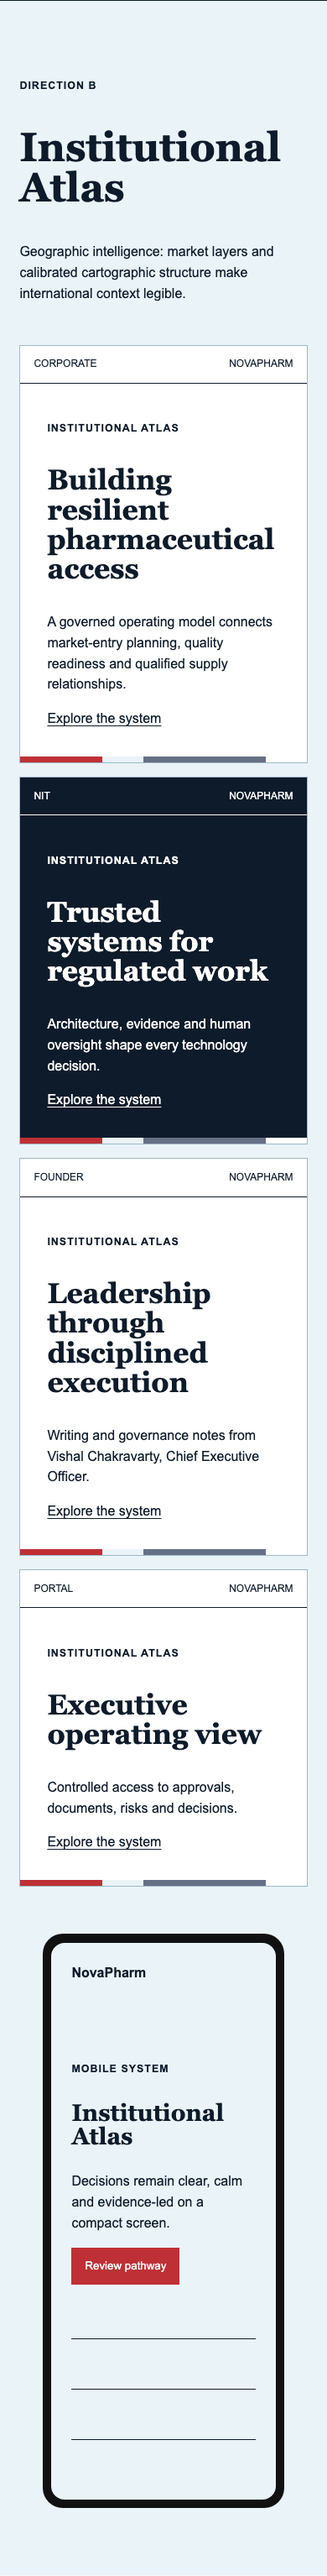
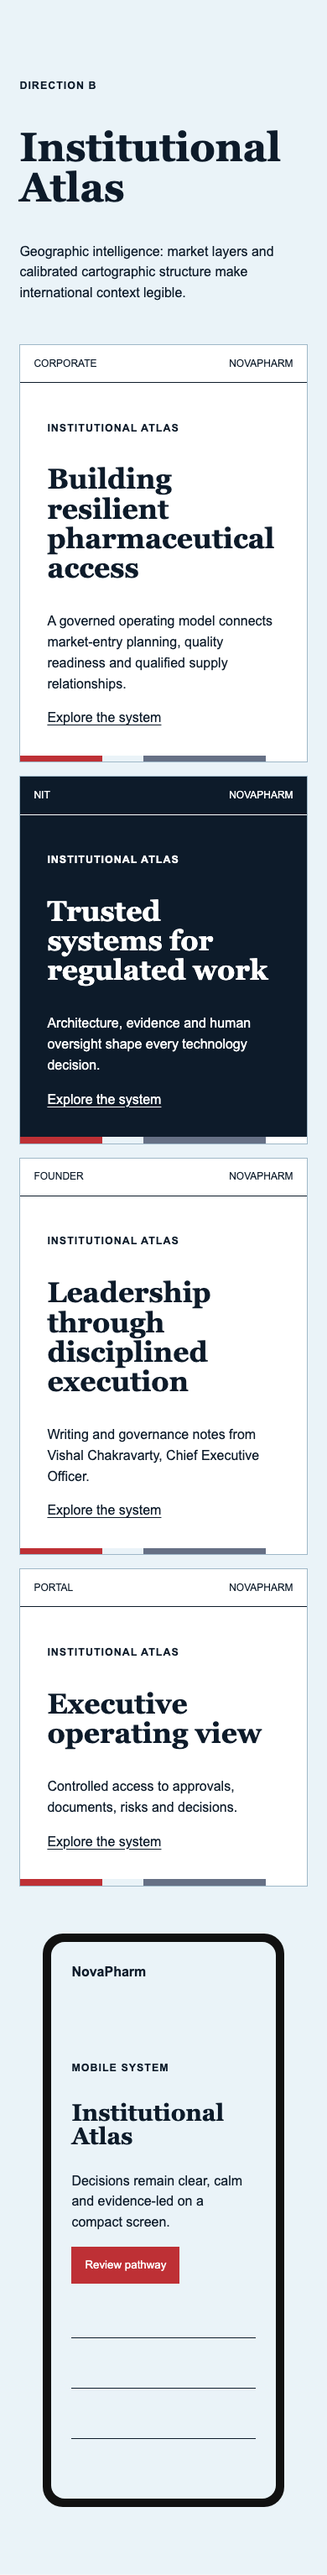
fix(accessibility): preserve brand contrast across estate

diff --git a/assets/css/novapharm.bundle.css b/assets/css/novapharm.bundle.css
@@ -14,6 +14,7 @@
   --line: #d0d5dd;
   --brand: #E3120B;
   --brand-2: #B30E09;
+  --brand-text: #B30E09;
   --navy: #081827;
   --teal: #087f8c;
   --blue: #2457d6;
@@ -217,7 +218,7 @@ h1, h2, h3, h4, p, a, td, th { overflow-wrap: break-word; }
   letter-spacing: 0;
 }
 .section-head-wide { max-width: 940px; }
-.section-kicker { display: block; margin-bottom: 12px; color: var(--brand); font-size: 12px; font-weight: 800; text-transform: uppercase; }
+.section-kicker { display: block; margin-bottom: 12px; color: var(--brand-text); font-size: 12px; font-weight: 800; text-transform: uppercase; }
 .section-head p { margin: 0; color: var(--muted); font-size: 17px; }
 
 .grid { display: grid; gap: 18px; }
@@ -259,7 +260,7 @@ h1, h2, h3, h4, p, a, td, th { overflow-wrap: break-word; }
 .signal-list { display: grid; grid-template-columns: repeat(2, minmax(0, 1fr)); gap: 0; margin: 28px 0; border-top: 1px solid rgba(8,24,39,0.16); }
 .signal-list span { padding: 16px 0; border-bottom: 1px solid rgba(8,24,39,0.16); color: var(--ink); font-weight: 700; }
 .signal-list span:nth-child(odd) { padding-right: 20px; }
-.text-link { color: var(--brand); font-weight: 750; }
+.text-link { color: var(--brand-text); font-weight: 750; }
 .executive-section { background: var(--navy); color: #dce7ef; }
 .executive-grid { display: grid; grid-template-columns: minmax(280px, 0.72fr) minmax(0, 1.28fr); gap: 72px; align-items: center; }
 .executive-media { height: 560px; overflow: hidden; border-radius: 4px; background: #d8dde2; }
@@ -819,7 +820,7 @@ td { color: var(--text); }
   padding: 5px 8px;
   border: 1px solid color-mix(in srgb, var(--brand) 24%, var(--line));
   border-radius: 4px;
-  color: var(--brand);
+  color: var(--brand-text);
   background: color-mix(in srgb, var(--brand) 6%, var(--surface));
   font-size: 11px;
   font-weight: 780;
@@ -890,7 +891,7 @@ td { color: var(--text); }
 .regulatory-notice strong { color: var(--ink); }
 .regulatory-notice p { margin: 6px 0 0; color: var(--text); }
 .logistics-story { background: color-mix(in srgb, var(--surface) 88%, #b8d9dc); }
-.editorial-index { color: var(--brand); font-size: 13px; font-weight: 820; text-transform: uppercase; }
+.editorial-index { color: var(--brand-text); font-size: 13px; font-weight: 820; text-transform: uppercase; }
 .section-dark .editorial-index { color: #ffd3d4; }
 .editorial-split h2 { margin-top: 0; color: var(--ink); font-size: 43px; line-height: 1.12; }
 .editorial-split p { max-width: 780px; font-size: 18px; }
@@ -1272,6 +1273,7 @@ td { color: var(--text); }
   --line-strong: #aebbb7;
   --brand: #E3120B;
   --brand-2: #B30E09;
+  --brand-text: #B30E09;
   --navy: #101c27;
   --forest: #29584c;
   --teal: #477a76;
@@ -1378,7 +1380,7 @@ a:hover { color: var(--brand-2); }
 
 .section-kicker {
   margin-bottom: var(--space-3);
-  color: var(--brand);
+  color: var(--brand-text);
   font-size: 12px;
   font-weight: 800;
 }
@@ -2047,7 +2049,7 @@ html[data-motion="ready"] [data-reveal].is-visible {
   border-bottom: 1px solid var(--line);
 }
 .portal-topbar h1 { font-family: var(--serif); font-size: 38px; font-weight: 560; }
-.portal-topbar .eyebrow { color: var(--brand); }
+.portal-topbar .eyebrow { color: var(--brand-text); }
 .portal-main .metric-row { grid-template-columns: repeat(auto-fit, minmax(170px, 1fr)); }
 
 .portal-title { min-width: 0; }
@@ -4852,7 +4854,7 @@ body[data-page="cro"] .cro-challenge-panel .section-kicker { color: #ffd3d4; }
 .cro-decision-grid { grid-template-columns: minmax(0, 1.25fr) minmax(330px, .75fr); }
 .cro-decision-questions { border-top: 1px solid var(--line); }
 .cro-decision-questions button { width: 100%; min-height: 70px; display: grid; grid-template-columns: 46px 1fr auto; gap: 15px; align-items: center; padding: 13px 0; border: 0; border-bottom: 1px solid var(--line); background: transparent; color: var(--text); text-align: left; cursor: pointer; }
-.cro-decision-questions button > span { color: var(--brand); font-size: 11px; font-weight: 800; }
+.cro-decision-questions button > span { color: var(--brand-text); font-size: 11px; font-weight: 800; }
 .cro-decision-questions button strong { color: var(--ink); font-size: 15px; }
 .cro-decision-questions button small { color: var(--muted); font-weight: 700; }
 .cro-decision-questions button[aria-pressed="true"] { padding-inline: 15px; background: #eaf0ee; }

diff --git a/assets/css/base.css b/assets/css/base.css
@@ -9,6 +9,7 @@
   --line: #d0d5dd;
   --brand: #E3120B;
   --brand-2: #B30E09;
+  --brand-text: #B30E09;
   --navy: #081827;
   --teal: #087f8c;
   --blue: #2457d6;
@@ -212,7 +213,7 @@ h1, h2, h3, h4, p, a, td, th { overflow-wrap: break-word; }
   letter-spacing: 0;
 }
 .section-head-wide { max-width: 940px; }
-.section-kicker { display: block; margin-bottom: 12px; color: var(--brand); font-size: 12px; font-weight: 800; text-transform: uppercase; }
+.section-kicker { display: block; margin-bottom: 12px; color: var(--brand-text); font-size: 12px; font-weight: 800; text-transform: uppercase; }
 .section-head p { margin: 0; color: var(--muted); font-size: 17px; }
 
 .grid { display: grid; gap: 18px; }
@@ -254,7 +255,7 @@ h1, h2, h3, h4, p, a, td, th { overflow-wrap: break-word; }
 .signal-list { display: grid; grid-template-columns: repeat(2, minmax(0, 1fr)); gap: 0; margin: 28px 0; border-top: 1px solid rgba(8,24,39,0.16); }
 .signal-list span { padding: 16px 0; border-bottom: 1px solid rgba(8,24,39,0.16); color: var(--ink); font-weight: 700; }
 .signal-list span:nth-child(odd) { padding-right: 20px; }
-.text-link { color: var(--brand); font-weight: 750; }
+.text-link { color: var(--brand-text); font-weight: 750; }
 .executive-section { background: var(--navy); color: #dce7ef; }
 .executive-grid { display: grid; grid-template-columns: minmax(280px, 0.72fr) minmax(0, 1.28fr); gap: 72px; align-items: center; }
 .executive-media { height: 560px; overflow: hidden; border-radius: 4px; background: #d8dde2; }
@@ -814,7 +815,7 @@ td { color: var(--text); }
   padding: 5px 8px;
   border: 1px solid color-mix(in srgb, var(--brand) 24%, var(--line));
   border-radius: 4px;
-  color: var(--brand);
+  color: var(--brand-text);
   background: color-mix(in srgb, var(--brand) 6%, var(--surface));
   font-size: 11px;
   font-weight: 780;
@@ -885,7 +886,7 @@ td { color: var(--text); }
 .regulatory-notice strong { color: var(--ink); }
 .regulatory-notice p { margin: 6px 0 0; color: var(--text); }
 .logistics-story { background: color-mix(in srgb, var(--surface) 88%, #b8d9dc); }
-.editorial-index { color: var(--brand); font-size: 13px; font-weight: 820; text-transform: uppercase; }
+.editorial-index { color: var(--brand-text); font-size: 13px; font-weight: 820; text-transform: uppercase; }
 .section-dark .editorial-index { color: #ffd3d4; }
 .editorial-split h2 { margin-top: 0; color: var(--ink); font-size: 43px; line-height: 1.12; }
 .editorial-split p { max-width: 780px; font-size: 18px; }

diff --git a/apps/status/app/globals.css b/apps/status/app/globals.css
@@ -6,6 +6,7 @@
   --white: #ffffff;
   --navy: #102336;
   --red: #E3120B;
+  --red-dark: #B30E09;
   --green: #17745a;
   --amber: #9a6315;
   --blue: #236b8e;
@@ -27,7 +28,7 @@ a { color: inherit; }
 .status-header img { display: block; width: 100%; height: auto; }
 .status-header > span { color: var(--muted); font-size: 0.82rem; font-weight: 750; text-transform: uppercase; }
 .status-hero { padding: clamp(54px, 8vw, 112px) clamp(20px, 10vw, 168px); color: var(--white); background: var(--navy); }
-.eyebrow { margin: 0 0 14px; color: var(--red); font-size: 0.74rem; font-weight: 800; text-transform: uppercase; }
+.eyebrow { margin: 0 0 14px; color: var(--red-dark); font-size: 0.74rem; font-weight: 800; text-transform: uppercase; }
 .status-hero .eyebrow { color: #ff858a; }
 .status-hero h1 { max-width: 18ch; margin: 0; font-size: clamp(2.35rem, 5vw, 5.4rem); line-height: 1.02; font-weight: 680; }
 .status-hero > p:not(.eyebrow) { max-width: 68ch; margin: 24px 0 0; color: #d9e3eb; font-size: 1.04rem; line-height: 1.7; }
@@ -53,7 +54,7 @@ a { color: inherit; }
 .state-dot.state-operational { background: var(--green); }
 .state-degraded, .state-configuration { color: var(--amber); }
 .state-dot.state-degraded, .state-dot.state-configuration { background: var(--amber); }
-.state-unavailable { color: var(--red); }
+.state-unavailable { color: var(--red-dark); }
 .state-dot.state-unavailable { background: var(--red); }
 .state-label { font-size: 0.78rem; }
 .service-row > a { justify-self: start; color: var(--blue); font-size: 0.78rem; font-weight: 750; }

diff --git a/apps/portal/components/module-presentations.module.css b/apps/portal/components/module-presentations.module.css
@@ -1,27 +1,32 @@
 .presentation {
   min-height: 100%;
   --presentation-accent: #344b62;
+  --presentation-text-accent: #344b62;
   --presentation-soft: #f2f5f7;
   --presentation-rule: #d7dee8;
 }
 
 .presentation[data-module^="customer."] {
   --presentation-accent: #236b8e;
+  --presentation-text-accent: #236b8e;
   --presentation-soft: #f0f6f9;
 }
 
 .presentation[data-module^="employee."] {
   --presentation-accent: #426774;
+  --presentation-text-accent: #426774;
   --presentation-soft: #f1f5f6;
 }
 
 .presentation[data-module^="executive."] {
   --presentation-accent: #E3120B;
+  --presentation-text-accent: #B30E09;
   --presentation-soft: #fff5f5;
 }
 
 .presentation[data-module^="admin."] {
   --presentation-accent: #344b62;
+  --presentation-text-accent: #344b62;
   --presentation-soft: #f2f4f7;
 }
 
@@ -55,7 +60,7 @@
 }
 
 .presentation :global(.module-heading .eyebrow) {
-  color: var(--presentation-accent);
+  color: var(--presentation-text-accent);
 }
 
 .presentation :global(.module-heading h1) {

diff --git a/assets/css/cro.css b/assets/css/cro.css
@@ -183,7 +183,7 @@ body[data-page="cro"] .cro-challenge-panel .section-kicker { color: #ffd3d4; }
 .cro-decision-grid { grid-template-columns: minmax(0, 1.25fr) minmax(330px, .75fr); }
 .cro-decision-questions { border-top: 1px solid var(--line); }
 .cro-decision-questions button { width: 100%; min-height: 70px; display: grid; grid-template-columns: 46px 1fr auto; gap: 15px; align-items: center; padding: 13px 0; border: 0; border-bottom: 1px solid var(--line); background: transparent; color: var(--text); text-align: left; cursor: pointer; }
-.cro-decision-questions button > span { color: var(--brand); font-size: 11px; font-weight: 800; }
+.cro-decision-questions button > span { color: var(--brand-text); font-size: 11px; font-weight: 800; }
 .cro-decision-questions button strong { color: var(--ink); font-size: 15px; }
 .cro-decision-questions button small { color: var(--muted); font-weight: 700; }
 .cro-decision-questions button[aria-pressed="true"] { padding-inline: 15px; background: #eaf0ee; }

diff --git a/packages/design-system/src/styles.ts b/packages/design-system/src/styles.ts
@@ -43,7 +43,7 @@ export const designSystemCss = String.raw`
 .np-data-table .np-numeric{text-align:right;font-variant-numeric:tabular-nums}
 .np-timeline{counter-reset:step;list-style:none;padding:0;margin:0}
 .np-timeline li{display:grid;grid-template-columns:3rem 1fr;gap:1rem;padding-block:1.25rem;border-top:1px solid #d8dde4}
-.np-timeline__index{font-variant-numeric:tabular-nums;color:#E3120B;font-weight:700}
+.np-timeline__index{font-variant-numeric:tabular-nums;color:#B30E09;font-weight:700}
 .np-field,.np-search,.np-file-upload{min-width:0;display:grid;gap:.5rem}
 .np-field__hint{color:#667085;margin:0}
 .np-field__error{color:#9f1239;font-weight:650}

diff --git a/packages/design-system/workbench/workbench.css b/packages/design-system/workbench/workbench.css
@@ -43,7 +43,7 @@
 .np-data-table .np-numeric{text-align:right;font-variant-numeric:tabular-nums}
 .np-timeline{counter-reset:step;list-style:none;padding:0;margin:0}
 .np-timeline li{display:grid;grid-template-columns:3rem 1fr;gap:1rem;padding-block:1.25rem;border-top:1px solid #d8dde4}
-.np-timeline__index{font-variant-numeric:tabular-nums;color:#E3120B;font-weight:700}
+.np-timeline__index{font-variant-numeric:tabular-nums;color:#B30E09;font-weight:700}
 .np-field,.np-search,.np-file-upload{min-width:0;display:grid;gap:.5rem}
 .np-field__hint{color:#667085;margin:0}
 .np-field__error{color:#9f1239;font-weight:650}

diff --git a/packages/design-system/test/design-system.test.ts b/packages/design-system/test/design-system.test.ts
@@ -10,6 +10,7 @@ test("shared foundation retains distinct property directions", () => {
 
 test("tokens preserve controlled branding and usable interaction dimensions", () => {
   assert.equal(designTokens.colour.novapharmRed, "#E3120B");
+  assert.equal(designTokens.colour.novapharmRedText, "#B30E09");
   assert.equal(designTokens.radius.card, "8px");
   assert.equal(designTokens.layout.touchTarget, "44px");
   assert.match(reducedMotionCss(), /prefers-reduced-motion/);

diff --git a/assets/css/portal.css b/assets/css/portal.css
@@ -78,7 +78,7 @@
   border-bottom: 1px solid var(--line);
 }
 .portal-topbar h1 { font-family: var(--serif); font-size: 38px; font-weight: 560; }
-.portal-topbar .eyebrow { color: var(--brand); }
+.portal-topbar .eyebrow { color: var(--brand-text); }
 .portal-main .metric-row { grid-template-columns: repeat(auto-fit, minmax(170px, 1fr)); }
 
 .portal-title { min-width: 0; }

diff --git a/apps/portal/app/globals.css b/apps/portal/app/globals.css
@@ -8,6 +8,7 @@
   --navy-2: #18364d;
   --red: #E3120B;
   --red-dark: #B30E09;
+  --red-text: #B30E09;
   --blue: #236b8e;
   --green: #17745a;
   --amber: #9a6315;
@@ -41,7 +42,7 @@ a { color: inherit; }
 
 .eyebrow {
   margin: 0 0 12px;
-  color: var(--red);
+  color: var(--red-text);
   font-size: 0.76rem;
   font-weight: 750;
   letter-spacing: 0;

diff --git a/apps/portal/app/apple-pharma-portal.css b/apps/portal/app/apple-pharma-portal.css
@@ -5,6 +5,7 @@
   --portal-soft: #f5f5f7;
   --portal-white: #ffffff;
   --portal-red: #E3120B;
+  --portal-red-text: #B30E09;
   --portal-red-soft: #fff3f4;
 }
 
@@ -24,7 +25,7 @@ textarea {
 }
 
 .eyebrow {
-  color: var(--portal-red);
+  color: var(--portal-red-text);
   font-size: .7rem;
   letter-spacing: .08em;
 }

diff --git a/packages/design-system/src/index.ts b/packages/design-system/src/index.ts
@@ -7,6 +7,7 @@ export const designTokens = Object.freeze({
     silver: "#d8dde4",
     pharmaceuticalBlue: "#eaf3f8",
     novapharmRed: "#E3120B",
+    novapharmRedText: "#B30E09",
     focus: "#0b69ff"
   }),
   radius: Object.freeze({ small: "4px", card: "8px" }),
